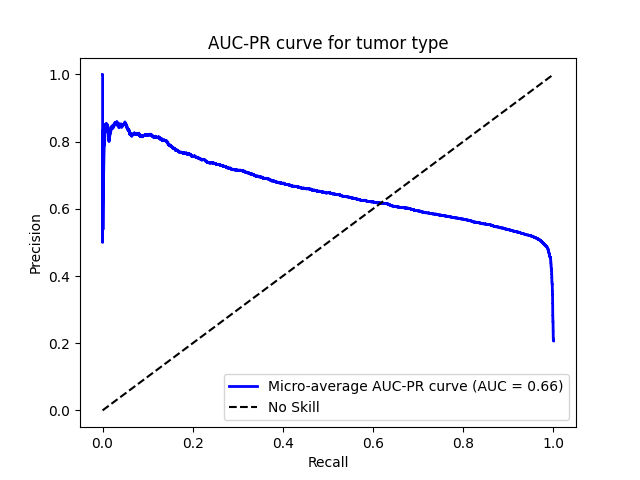
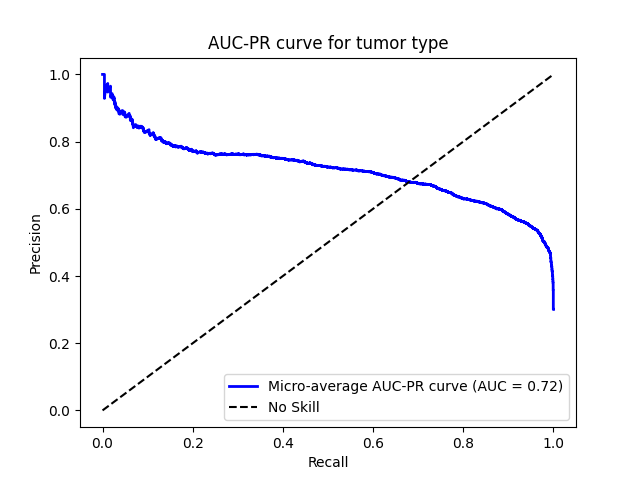
Probando entrenamiento de tipo histológico con teselas IDC e ILC balanceadas

diff --git a/anatomical_pathology_data/image/tumor_type_without_mixed/training/image_tumor_type_prediction.py b/anatomical_pathology_data/image/tumor_type_without_mixed/training/image_tumor_type_prediction.py
@@ -73,19 +73,21 @@ df_all_merge = df_all_merge[(df_all_merge["path_n_stage"]!= 'N0') & (df_all_merg
                             (df_all_merge["path_n_stage"]!= 'N0 (MOL+)') & (df_all_merge["tumor_type"]!= 'Other') &
                             (df_all_merge["tumor_type"]!= 'Mixed Histology (NOS)')]
 
-""" Se eliminan todas las columnas de mutaciones excepto la de tipo histológico """
+""" Se eliminan todas las columnas de mutaciones excepto la de tipo histológico y se igualan los pacientes para que
+tengan el mismo número de IDC y el mismo número de ILC """
 df_all_merge = df_all_merge[['ID', 'tumor_type']]
-df_all_merge.dropna(inplace=True) # Mantiene el DataFrame con las entradas válidas en la misma variable.
-df_all_merge = df_all_merge.sort_values(by='tumor_type', ascending = False)
+df_all_merge.dropna(inplace = True) # Mantiene el DataFrame con las entradas válidas en la misma variable.
+df_all_merge = df_all_merge.sort_values(by = 'tumor_type', ascending = False)
 df_all_merge = df_all_merge[:-297] # Ahora hay el mismo número de IDC y ILC
 
 """ Una vez la tabla tiene las columnas deseadas se procede a codificar las columnas categóricas del dataframe a valores
 numéricos mediante la técnica del 'One Hot Encoding' antes de hacer la repartición de subconjuntos para que no haya 
 problemas con las columnas. """
 #@ get_dummies: Aplica técnica de 'One Hot Encoding', creando columnas binarias para las columnas seleccionadas
-df_all_merge = pd.get_dummies(df_all_merge, columns=["tumor_type"])
+df_all_merge = pd.get_dummies(df_all_merge, columns = ["tumor_type"])
 
 """ Se dividen los datos tabulares y las imágenes con cáncer en conjuntos de entrenamiento, validación y test. """
+# 147 pacientes en entrenamiento, 44 en test y 27 en validación.
 # @train_test_split: Divide en subconjuntos de datos los 'arrays' o matrices especificadas.
 # @random_state: Consigue que en cada ejecución la repartición sea la misma, a pesar de estar barajada: """
 train_data, test_data = train_test_split(df_all_merge, test_size = 0.20)
@@ -136,6 +138,32 @@ for id_img in remove_img_list:
     train_data.drop(index_train, inplace = True)
     valid_data.drop(index_valid, inplace = True)
     test_data.drop(index_test, inplace = True)
+
+""" Se iguala el número de teselas con IDC y con ILC """
+# Entrenamiento
+train_idc_tiles = train_data['tumor_type_Infiltrating Ductal Carcinoma'].value_counts()[1]
+train_ilc_tiles = train_data['tumor_type_Infiltrating Lobular Carcinoma'].value_counts()[1]
+difference_train = train_idc_tiles - train_ilc_tiles
+
+train_data = train_data.sort_values(by = 'tumor_type_Infiltrating Ductal Carcinoma', ascending = True)
+train_data = train_data[:-difference_train] # Ahora hay el mismo número de IDC y ILC
+
+# Validación
+valid_idc_tiles = valid_data['tumor_type_Infiltrating Ductal Carcinoma'].value_counts()[1]
+valid_ilc_tiles = valid_data['tumor_type_Infiltrating Lobular Carcinoma'].value_counts()[1]
+difference_valid = valid_idc_tiles - valid_ilc_tiles
+
+valid_data = valid_data.sort_values(by = 'tumor_type_Infiltrating Ductal Carcinoma', ascending = True)
+valid_data = valid_data[:-difference_valid] # Ahora hay el mismo número de IDC y ILC
+
+
+# Test
+test_idc_tiles = test_data['tumor_type_Infiltrating Ductal Carcinoma'].value_counts()[1]
+test_ilc_tiles = test_data['tumor_type_Infiltrating Lobular Carcinoma'].value_counts()[1]
+difference_test = test_idc_tiles - test_ilc_tiles
+
+test_data = test_data.sort_values(by = 'tumor_type_Infiltrating Ductal Carcinoma', ascending = True)
+test_data = test_data[:-difference_test] # Ahora hay el mismo número de IDC y ILC
 
 """ Una vez ya se tienen todas las imágenes valiosas y todo perfectamente enlazado entre datos e imágenes, se definen 
 las dimensiones que tendrán cada una de ellas. """
@@ -277,7 +305,7 @@ model.summary()
 
 """ Una vez descongeladas las capas convolucionales seleccionadas y compilado de nuevo el modelo, se entrena otra vez. """
 neural_network = model.fit(x = train_gen,
-                           epochs = 20, verbose = 1, validation_data = val_gen,
+                           epochs = 15, verbose = 1, validation_data = val_gen,
                            #callbacks = mcp_save,
                            steps_per_epoch = (train_image_data_len / batch_dimension),
                            validation_steps = (valid_image_data_len / batch_dimension))

diff --git a/anatomical_pathology_data/image/tumor_type_without_mixed/inference/codes/tcga_tumor_type_inference.py b/anatomical_pathology_data/image/tumor_type_without_mixed/inference/codes/tcga_tumor_type_inference.py
@@ -29,8 +29,10 @@ from sklearn.metrics import confusion_matrix
 'numpy' """
 model = load_model('/home/avalderas/img_slides/anatomical_pathology_data/image/tumor_type_without_mixed/inference/models/model_image_tumor_type_02_0.34_unbalanced.h5')
 
-test_image_data = np.load('/home/avalderas/img_slides/anatomical_pathology_data/image/tumor_type_without_mixed/inference/test_data/test_image_balanced.npy')
-test_labels_tumor_type = np.load('/home/avalderas/img_slides/anatomical_pathology_data/image/tumor_type_without_mixed/inference/test_data/test_labels_tumor_type_balanced.npy')
+test_image_data = np.load(
+    '/anatomical_pathology_data/image/tumor_type_without_mixed/inference/test_data/test_image_balanced_patients.npy')
+test_labels_tumor_type = np.load(
+    '/anatomical_pathology_data/image/tumor_type_without_mixed/inference/test_data/test_labels_tumor_type_balanced_patients.npy')
 
 """ Una vez entrenado el modelo se puede evaluar con los datos de test y obtener los resultados de las métricas
 especificadas en el proceso de entrenamiento. En este caso, se decide mostrar los resultados de la 'loss', la exactitud,
